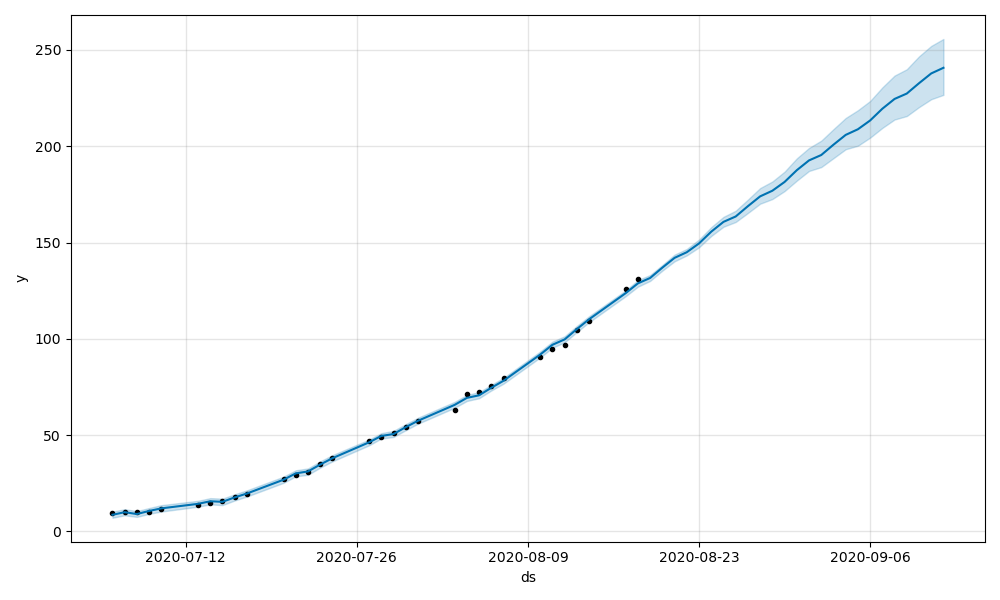
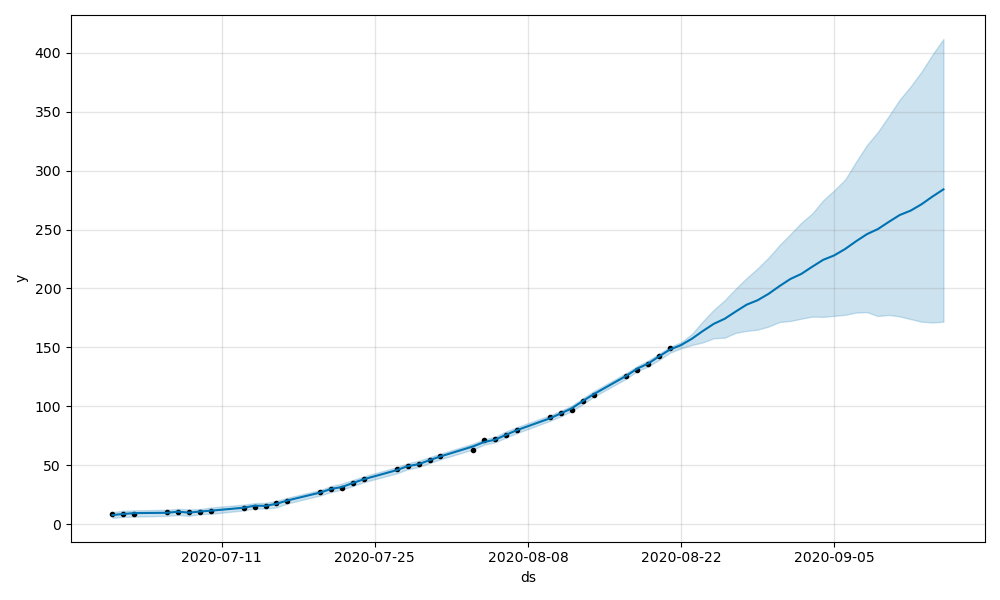
Add last 14 days to the predictions

diff --git a/covid19.py b/covid19.py
@@ -5,7 +5,7 @@ from scipy import optimize
 from pandas.plotting import register_matplotlib_converters
 from fbprophet import Prophet
 import datetime
-import os, sys
+import os
 
 register_matplotlib_converters()
 
@@ -300,7 +300,7 @@ def predict(y, filename='sample.csv', periods=25):
     df['y'] = file[y]
     file = file[['Date', y]].rename({y: 'Real'}, axis=1)
 
-    model = Prophet(yearly_seasonality=False, n_changepoints=24, daily_seasonality=True)
+    model = Prophet(yearly_seasonality=False, n_changepoints=8, daily_seasonality=True, interval_width=0.999)
     with suppress_stdout_stderr():
         model.fit(df)
     future = model.make_future_dataframe(periods=25)

diff --git a/tests.py b/tests.py
@@ -21,3 +21,4 @@ def full_test():
 
 
 print(covid19.predict('IA'))
+print(covid19.predict('U14D'))
